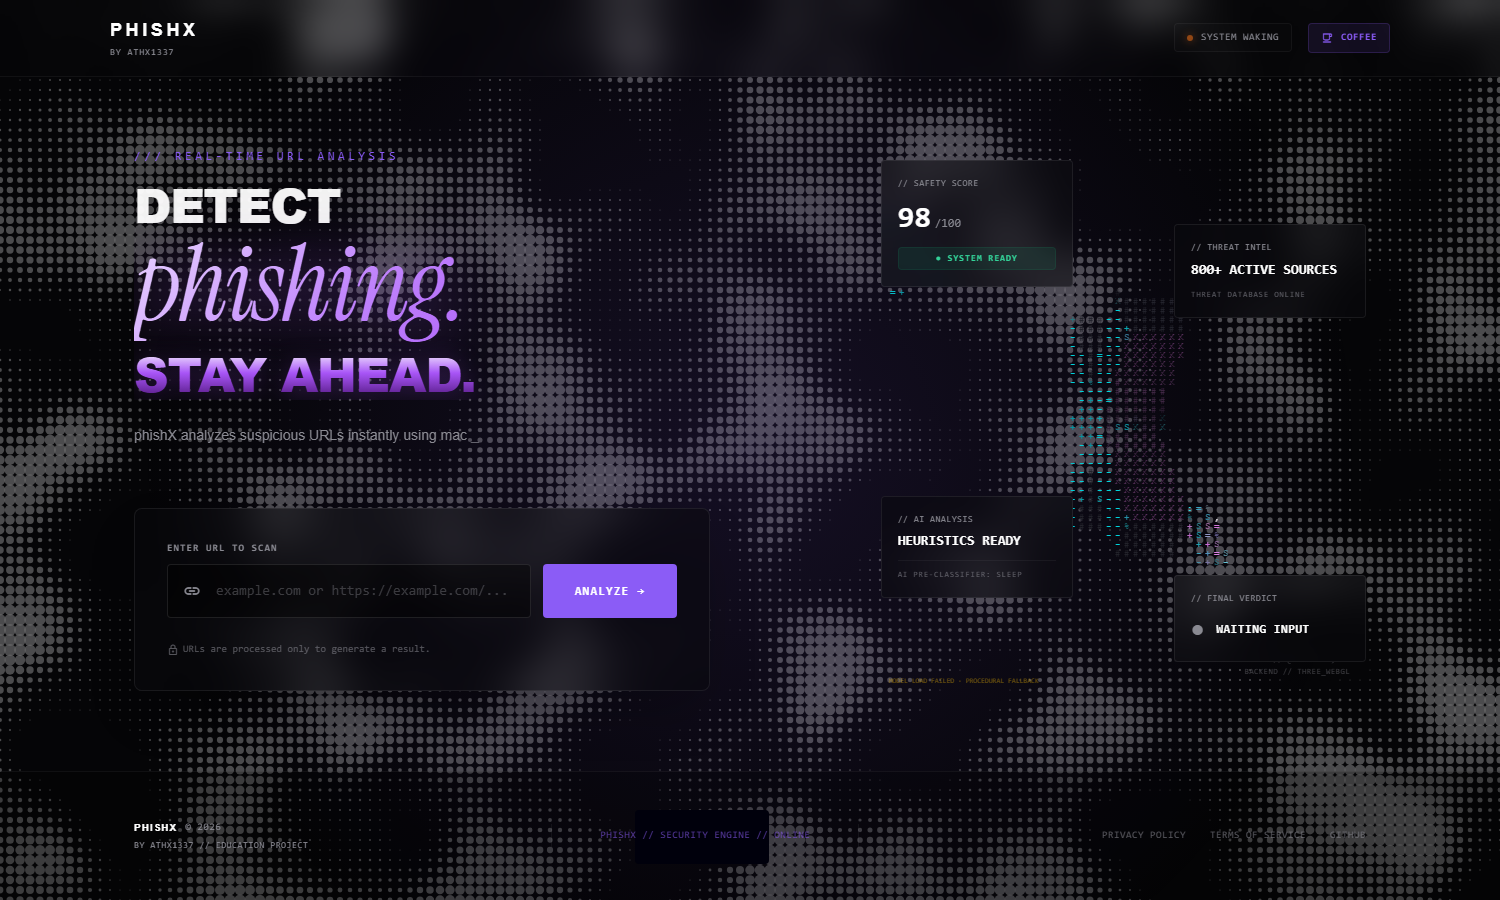
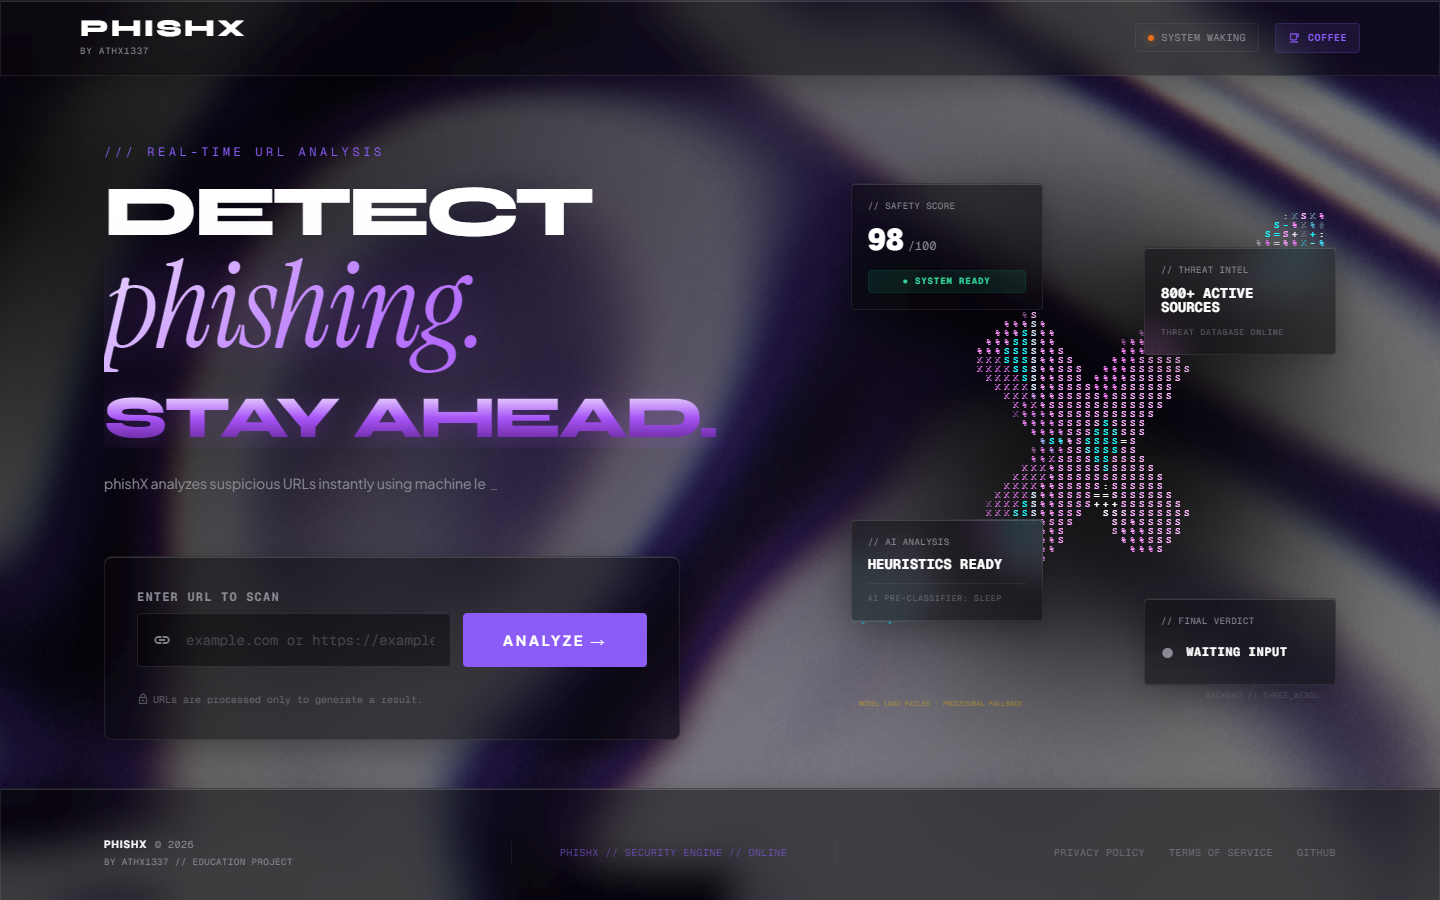
style: replace blocky syne font with clean UI fonts for scanner components

diff --git a/frontend/src/App.jsx b/frontend/src/App.jsx
@@ -235,7 +235,7 @@ function App() {
                   <span className="font-mono text-xs text-[#8b5cf6] tracking-[0.2em] uppercase">
                     // SCAN RESULT IDENTIFIED
                   </span>
-                  <h2 className="text-3xl md:text-4xl font-gothic-block font-black tracking-tighter text-white uppercase">Is this URL safe?</h2>
+                  <h2 className="text-3xl md:text-4xl font-gothic-block font-extrabold tracking-tighter text-white uppercase">Is this URL safe?</h2>
                   
                   <div className="relative flex w-full max-w-xl items-center mt-2">
                     <span className="absolute left-4 text-[#8a8a92] material-symbols-outlined">link</span>
@@ -269,7 +269,7 @@ function App() {
                     </div>
                     
                     <div className="text-center px-4">
-                      <h3 className="text-3xl font-gothic-block font-black tracking-widest uppercase text-white">
+                      <h3 className="text-3xl font-gothic-block font-extrabold tracking-widest uppercase text-white">
                         {result.is_phishing ? 'MALICIOUS LINK DETECTED' : 'SAFE TO VISIT'}
                       </h3>
                       <p className="text-[#8a8a92] text-[10px] mt-1 font-mono uppercase tracking-wide">
@@ -610,7 +610,7 @@ function App() {
         <div className="fixed inset-0 z-[100] flex items-center justify-center bg-black/70 backdrop-blur-sm p-4 animate-in">
           <div className="glass-panel w-full max-w-lg rounded shadow-2xl overflow-hidden relative">
             <div className="px-6 py-4 border-b border-white/5 flex justify-between items-center bg-white/[0.01]">
-              <h2 className="font-gothic-block font-black tracking-widest text-2xl text-white">
+              <h2 className="font-gothic-block font-extrabold tracking-widest text-2xl text-white">
                 {activeModal === 'privacy' ? 'PRIVACY POLICY' : 'TERMS OF SERVICE'}
               </h2>
               <button 

diff --git a/frontend/src/components/URLScanner.jsx b/frontend/src/components/URLScanner.jsx
@@ -108,7 +108,7 @@ export default function URLScanner({
 
         <div className="flex flex-col gap-2">
           <label
-            className="font-gothic-block text-sm font-black text-[#8a8a92] uppercase tracking-widest"
+            className="font-techmono text-xs font-bold text-[#8a8a92] uppercase tracking-widest"
             htmlFor="url-input"
           >
             ENTER URL TO SCAN
@@ -137,7 +137,7 @@ export default function URLScanner({
               ref={btnRef}
               type="submit"
               disabled={loading || isWaitingForWake}
-              className="flex items-center justify-center rounded bg-[#8b5cf6] hover:bg-[#8b5cf6]/90 text-white px-10 py-4 text-base font-gothic-block tracking-widest uppercase font-black transition-colors disabled:opacity-50 disabled:cursor-wait shrink-0 shadow-[0_0_15px_rgba(139,92,246,0.2)]"
+              className="flex items-center justify-center rounded bg-[#8b5cf6] hover:bg-[#8b5cf6]/90 text-white px-10 py-4 text-sm font-sans tracking-[0.2em] uppercase font-bold transition-colors disabled:opacity-50 disabled:cursor-wait shrink-0 shadow-[0_0_15px_rgba(139,92,246,0.2)]"
               onMouseEnter={e => {
                 if (!loading && !isWaitingForWake) {
                   animate(e.currentTarget, { scale: 1.04, duration: 180, easing: 'easeOutCubic' });

diff --git a/frontend/src/components/HeroHeading.jsx b/frontend/src/components/HeroHeading.jsx
@@ -100,7 +100,7 @@ export default function HeroHeading() {
             speed={60}
             showCursor={step === 1}
             onComplete={() => setStep(2)}
-            className="text-4xl sm:text-5xl md:text-6xl lg:text-7xl font-gothic-block font-black tracking-tighter text-white inline-block leading-none"
+            className="text-4xl sm:text-5xl md:text-6xl lg:text-7xl font-gothic-block font-extrabold tracking-tighter text-white inline-block leading-none"
           />
         )}
 
@@ -120,7 +120,7 @@ export default function HeroHeading() {
             speed={60}
             showCursor={step === 3}
             onComplete={() => setTimeout(() => setStep(4), 200)}
-            className="metallic-text text-3xl sm:text-4xl md:text-5xl lg:text-6xl font-gothic-block font-black tracking-tighter inline-block leading-none mt-1 sm:mt-2"
+            className="metallic-text text-3xl sm:text-4xl md:text-5xl lg:text-6xl font-gothic-block font-extrabold tracking-tighter inline-block leading-none mt-1 sm:mt-2"
           />
         )}
       </h1>

diff --git a/frontend/src/components/HeroVisual.jsx b/frontend/src/components/HeroVisual.jsx
@@ -11,7 +11,7 @@ export default function HeroVisual() {
     <div className="w-full h-full min-h-[350px] md:min-h-[480px] relative flex items-center justify-center select-none z-10">
 
       {/* Subtle dark orb to separate ASCII from the chaotic background waves */}
-      <div className="absolute top-1/2 left-1/2 -translate-x-1/2 -translate-y-1/2 w-[350px] h-[350px] bg-black/70 blur-[80px] rounded-full pointer-events-none z-0"></div>
+      <div className="absolute top-1/2 left-1/2 -translate-x-1/2 -translate-y-1/2 w-[450px] h-[450px] bg-black/90 blur-[90px] rounded-full pointer-events-none z-0"></div>
 
       {/* ── ASCII Simulation (skiper14 equivalent) ─────────────────────────────
           modelPath: tries to load /public/models/shield.glb

diff --git a/frontend/src/components/ui/AsciiSimulation.jsx b/frontend/src/components/ui/AsciiSimulation.jsx
@@ -98,8 +98,9 @@ function buildAsciiRenderer(glRenderer, camera, chars, fontSize, color) {
 
         if (char === ' ') continue;
 
-        // Tint the character with the model's own colour but blend with theme
-        ctx2d.fillStyle = `rgba(${r},${g},${b},${Math.min(a / 255 + 0.3, 1)})`;
+        // Tint the character with the model's own colour but multiply brightness heavily
+        const boost = 2.2;
+        ctx2d.fillStyle = `rgba(${Math.min(r * boost, 255)},${Math.min(g * boost, 255)},${Math.min(b * boost, 255)},${Math.min(a / 255 + 0.4, 1)})`;
         ctx2d.fillText(char, col * fontSize, row * fontSize);
       }
     }

diff --git a/frontend/src/components/Navbar.jsx b/frontend/src/components/Navbar.jsx
@@ -70,7 +70,7 @@ export default function Navbar({ serverStatus, onNavClick }) {
         {/* Left Side — Logo */}
         <div ref={logoRef} className="flex items-center gap-4">
           <div className="flex flex-col">
-            <span className="font-gothic-block font-black tracking-widest text-2xl text-white flex leading-none">
+            <span className="font-gothic-block font-extrabold tracking-widest text-2xl text-white flex leading-none">
               {'PHISHX'.split('').map((c, i) => (
                 <span key={i} className="logo-char inline-block" style={{ opacity: 0 }}>{c}</span>
               ))}
